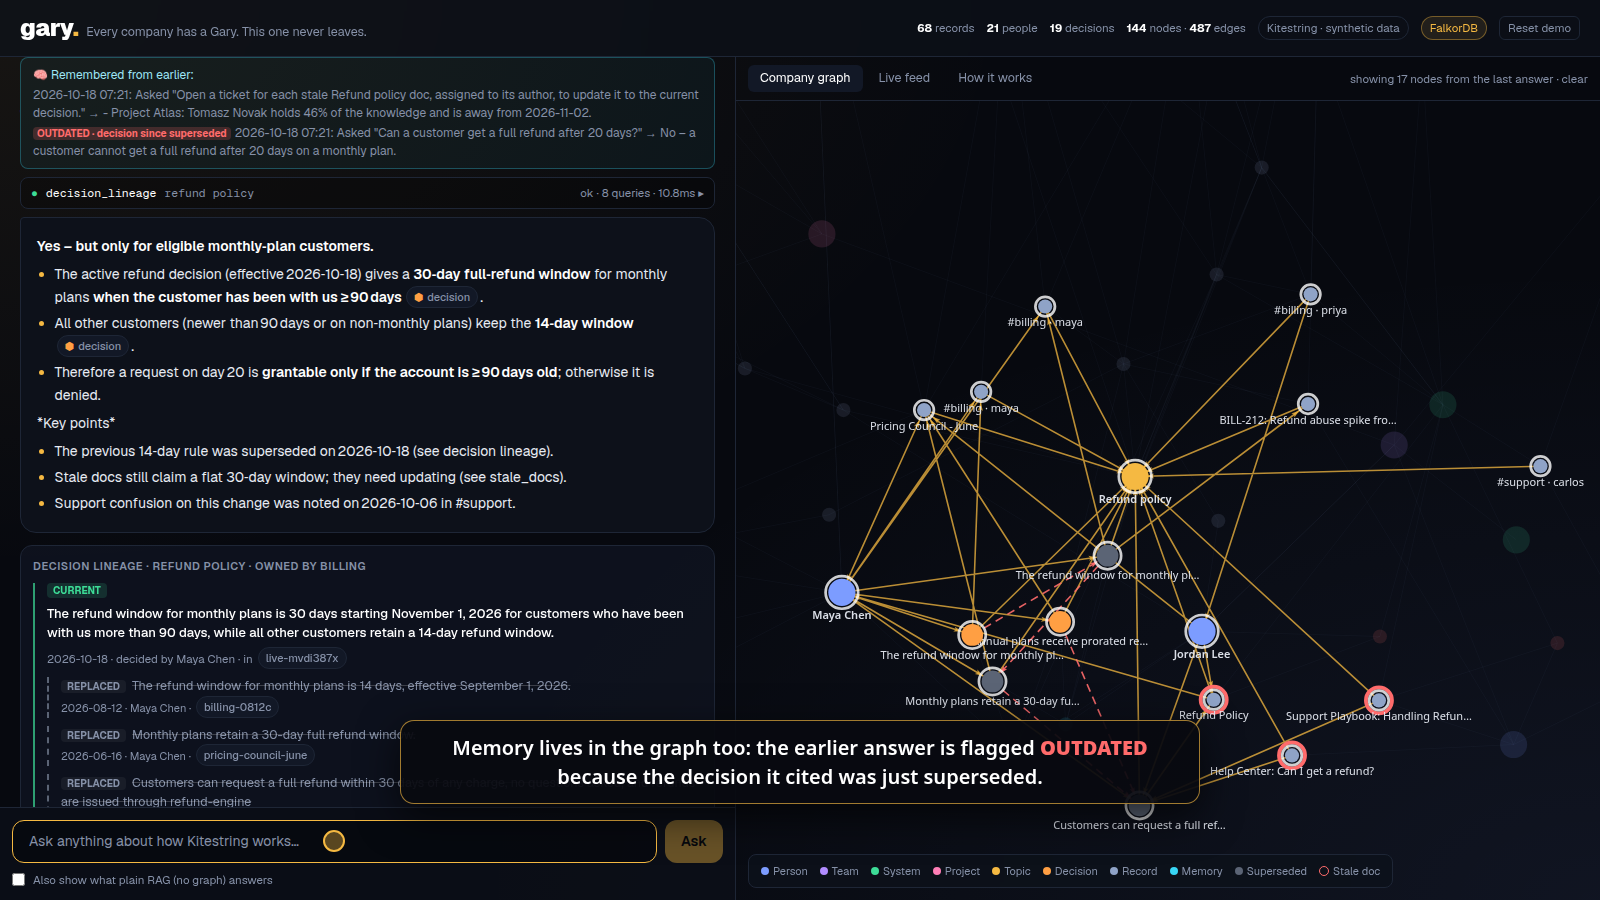
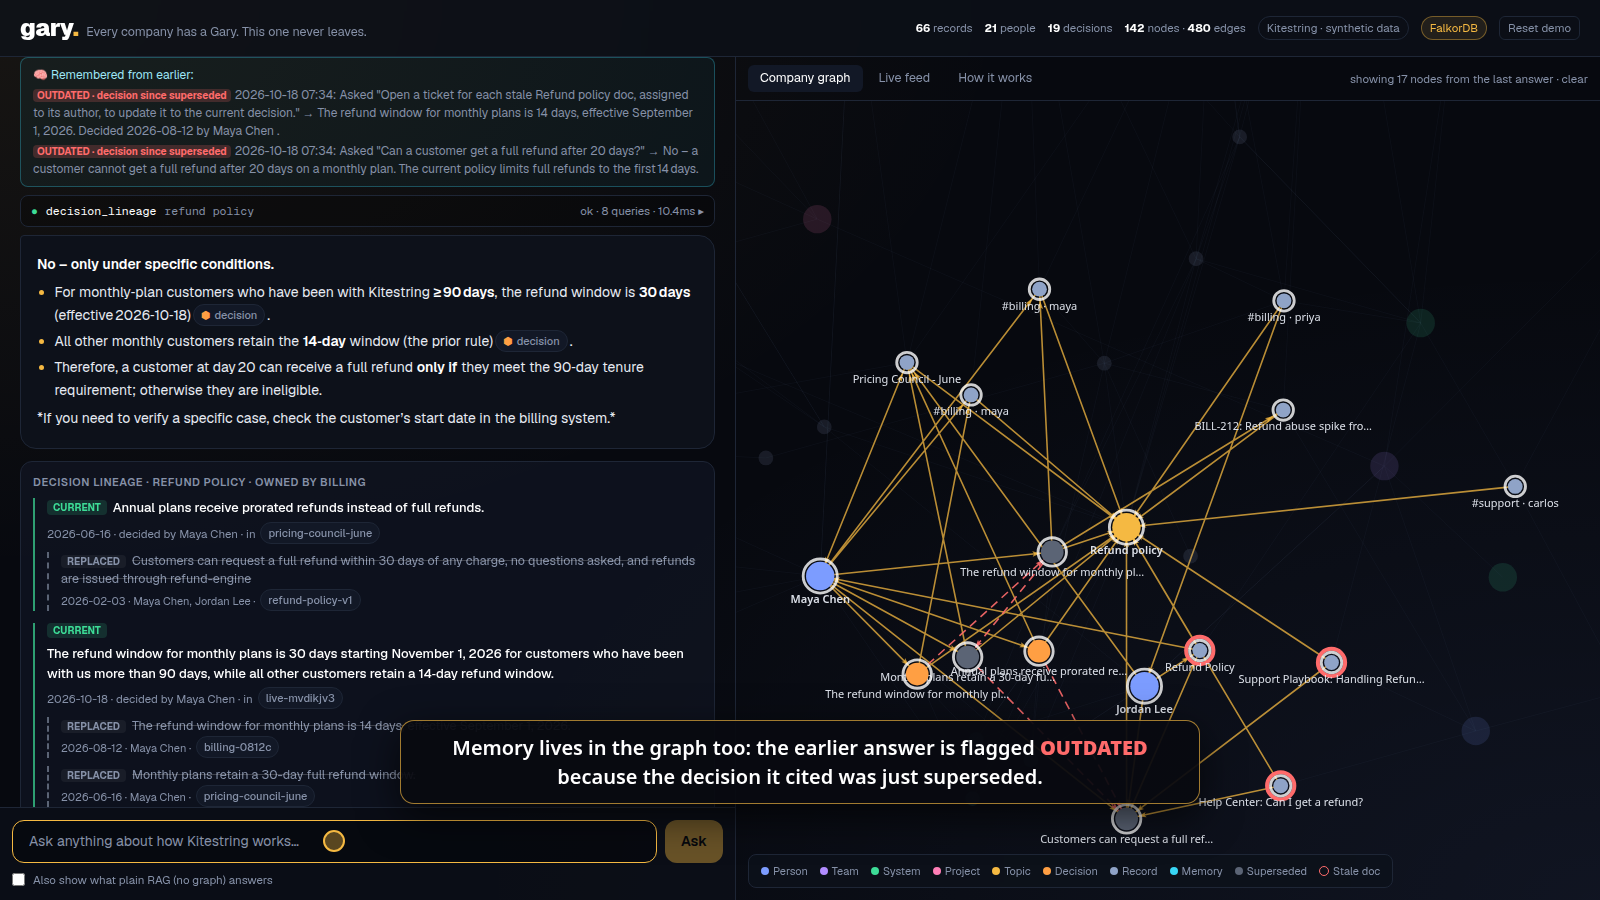
fix_stale_docs: one graph-driven, idempotent action tool behind the Fix-it button

diff --git a/lib/agent.ts b/lib/agent.ts
@@ -33,7 +33,7 @@ Rules:
 - If a recommended person is on_leave/away, say so and name a backup.
 - Only name owners, experts or backups that decision_lineage, who_knows, profile, risk_radar or catch_up returned. Search results are keyword matches: never infer owners or people from them.
 - When a decision replaced older ones, say what changed and when. Flag stale docs that still state old decisions, and name their authors.
-- Only call open_ticket or remember when the user explicitly asks you to act or remember.
+- Only call fix_stale_docs, open_ticket or remember when the user explicitly asks you to act or remember. To fix stale docs, call fix_stale_docs once (it handles every doc).
 - Be concise: a direct answer first, then 2-5 short bullet points. Plain markdown, no tables.
 Today is ${today}.${memory}`;
 
@@ -97,7 +97,7 @@ export async function* runAgent(question: string, history: Turn[], session: stri
 
   // No model available (rate limit / outage): route deterministically and answer from the rows.
   if (llmFailed && !results.length) {
-    const [name, args] = route(question);
+    const [name, args] = route(question, subjects);
     yield { type: "tool", id: "fallback", name, args };
     const result = await runTool(tx, name, args, session);
     results.push({ name, args, result });
@@ -146,7 +146,7 @@ export async function* runAgent(question: string, history: Turn[], session: stri
 
   const nodes = [...new Set(results.flatMap((r) => r.result.nodes))];
   // only answers the graph actually supported become memories
-  if (results.some((r) => r.result.outcome === "ok" && !["open_ticket", "remember"].includes(r.name)))
+  if (results.some((r) => r.result.outcome === "ok" && !["open_ticket", "remember", "fix_stale_docs"].includes(r.name)))
     await saveEpisode(tx, { session, question, answer: finalText, subjects: [...new Set([...subjects, ...results.flatMap((r) => r.result.nodes.filter((n) => /^(person|team|system|project|topic):/.test(n)))])].slice(0, 6), decisions: valid.filter((k) => k.startsWith("decision:")).concat(nodes.filter((n) => n.startsWith("decision:"))) }).catch(() => {});
 
   yield { type: "answer", text: finalText.trim(), citations, invalidCitations: invalid, model, grounded, nodes, rebuilt };
@@ -194,8 +194,9 @@ export function inventedNames(text: string, vocab: Set<string>): string[] {
   return [...out];
 }
 
-function route(q: string): [string, Record<string, unknown>] {
+function route(q: string, subjects: string[] = []): [string, Record<string, unknown>] {
   const s = q.toLowerCase();
+  if (/\b(fix|open (a )?tickets?)\b/.test(s) && subjects.length) return ["fix_stale_docs", { subject: subjects[0] }];
   const subject = q.replace(/^(who|what|why|when|how|where)\b.*?\b(about|on|for|is|are|of)\s+/i, "").replace(/[?.!]+$/, "");
   if (/risk|bus factor|single point|what could go wrong/.test(s)) return ["risk_radar", {}];
   if (/what did i miss|catch me up|what changed|while i was (away|out)/.test(s)) return ["catch_up", { days: 30 }];
@@ -232,6 +233,9 @@ function composeFromRows(results: { name: string; result: ToolResult }[]): strin
     } else if (name === "search" && d.results) {
       out.push(`Top records for "${d.query}":`);
       for (const r of d.results.slice(0, 4)) out.push(`- ${r.title} (${r.date}): ${r.excerpt} [${r.key}]`);
+    } else if (name === "fix_stale_docs" && d.tickets) {
+      out.push(`Opened tickets to bring the stale **${d.subject.name}** docs in line with the current decision:`);
+      for (const t of d.tickets) out.push(`- ${t.already_open ? "Already open" : "Created"} [${t.key}] for "${t.title}" [${t.doc}] → ${t.assigned_to}`);
     } else if (name === "catch_up" && d.decisions) {
       out.push(`Since ${d.since} (${d.for}):`);
       for (const x of d.decisions.slice(0, 6)) out.push(`- ${x.date}: ${x.statement}${x.replaced.length ? " (replaced an earlier decision)" : ""} [${x.key}]`);

diff --git a/lib/tools.ts b/lib/tools.ts
@@ -433,6 +433,43 @@ async function openTicket(tx: Tracer, args: { title: string; details: string; su
   });
 }
 
+// One action, driven entirely by the graph: a ticket per stale doc, assigned to its author. Idempotent.
+async function fixStaleDocs(tx: Tracer, { subject }: { subject: string }, session: string): Promise<ToolResult> {
+  const lineage = await decisionLineage(tx, { subject });
+  if (lineage.outcome !== "ok") return lineage;
+  const d = lineage.data as { subject: Resolved; current: { statement: string }[]; stale_docs: { key: string; title: string; still_says?: string; author: string | null }[] };
+  if (!d.stale_docs.length) return { outcome: "empty", data: { subject: d.subject, note: "No stale docs about this subject." }, nodes: [d.subject.key], cites: [] };
+  const current = d.current.map((c) => c.statement).join(" / ");
+  const tickets: { key: string; doc: string; title: string; assigned_to: string; already_open: boolean }[] = [];
+  for (const doc of d.stale_docs) {
+    const [open] = await tx.ro<{ key: string; assignee: string | null }>(
+      "fix.existing_ticket",
+      `MATCH (t:Ticket {origin:'gary', status:'Open'})-[:REFERENCES]->(:Doc {key:$k}) OPTIONAL MATCH (p:Person)-[:ASSIGNED]->(t) RETURN t.key AS key, p.name AS assignee LIMIT 1`,
+      { k: doc.key },
+    );
+    if (open) {
+      tickets.push({ key: open.key, doc: doc.key, title: doc.title, assigned_to: open.assignee ?? "unassigned", already_open: true });
+      continue;
+    }
+    const r = await openTicket(tx, {
+      title: `Update "${doc.title}" to the current decision`,
+      details: `Still says: "${doc.still_says ?? "an outdated decision"}". Current decision: ${current}`,
+      subject: d.subject.key,
+      assignee: doc.author ?? undefined,
+      refs: [doc.key],
+    });
+    const created = r.data as { created: string; assigned_to: string };
+    tickets.push({ key: created.created, doc: doc.key, title: doc.title, assigned_to: created.assigned_to, already_open: false });
+  }
+  void session;
+  return {
+    outcome: "ok",
+    data: { subject: d.subject, current_decision: current, tickets },
+    nodes: [d.subject.key, ...tickets.flatMap((t) => [t.key, t.doc])],
+    cites: [...tickets.map((t) => t.key), ...tickets.map((t) => t.doc)],
+  };
+}
+
 async function remember(tx: Tracer, args: { note: string; subject: string }, session: string): Promise<ToolResult> {
   return withSubject(tx, args.subject, async (s) => {
     const key = `finding:${Date.now()}`;
@@ -543,6 +580,14 @@ export const TOOLS: ChatCompletionTool[] = [
   {
     type: "function",
     function: {
+      name: "fix_stale_docs",
+      description: "ACTION: open a ticket for every stale doc about a subject, assigned to that doc's author (skips docs that already have an open ticket). Use when the user asks to fix or update stale docs.",
+      parameters: { type: "object", properties: subjectParam, required: ["subject"] },
+    },
+  },
+  {
+    type: "function",
+    function: {
       name: "remember",
       description: "Save a note to long-term memory about a subject. Only when the user asks you to remember something.",
       parameters: { type: "object", properties: { note: { type: "string" }, subject: { type: "string" } }, required: ["note", "subject"] },
@@ -570,6 +615,8 @@ export async function runTool(tx: Tracer, name: string, args: Record<string, unk
       return catchUp(tx, args as { since?: string; days?: number; person?: string }, resolve);
     case "open_ticket":
       return openTicket(tx, args as Parameters<typeof openTicket>[1]);
+    case "fix_stale_docs":
+      return fixStaleDocs(tx, args as { subject: string }, session);
     case "remember":
       return remember(tx, args as { note: string; subject: string }, session);
     default:

diff --git a/app/components/Cards.tsx b/app/components/Cards.tsx
@@ -22,7 +22,7 @@ const Key = ({ k, onCite }: { k?: string | null; onCite: (k: string) => void }) 
     </button>
   ) : null;
 
-export function ToolCards({ name, data, onCite, onAsk }: { name: string; data: any; onCite: (k: string) => void; onAsk: (q: string) => void }) {
+export function ToolCards({ name, data, onCite, onAsk }: { name: string; data: any; onCite: (k: string) => void; onAsk: (q: string, opts?: { compare?: boolean }) => void }) {
   if (!data) return null;
   if (name === "decision_lineage" && data.current) {
     return (
@@ -82,7 +82,7 @@ export function ToolCards({ name, data, onCite, onAsk }: { name: string; data: a
               </div>
             )}
             <button
-              onClick={() => onAsk(`Open a ticket for each stale ${data.subject?.name} doc, assigned to its author, to update it to the current decision.`)}
+              onClick={() => onAsk(`Fix the stale ${data.subject?.name} docs: open a ticket for each, assigned to its author.`, { compare: false })}
               className="mt-3 rounded-lg bg-bad/90 px-3 py-1.5 text-[12px] font-semibold text-white hover:bg-bad"
             >
               Fix it → open tickets for the doc owners
@@ -204,6 +204,20 @@ export function ToolCards({ name, data, onCite, onAsk }: { name: string; data: a
             </div>
           ))}
         </div>
+      </Box>
+    );
+  }
+  if (name === "fix_stale_docs" && data.tickets) {
+    return (
+      <Box tone="good" title="Action taken">
+        <ul className="space-y-1 text-[12.5px]">
+          {data.tickets.map((t: any) => (
+            <li key={t.key}>
+              {t.already_open ? "↺ Already open" : "✅ Created"} <Key k={t.key} onCite={onCite} /> for <span className="text-white">{t.title}</span> → assigned to{" "}
+              <span className="text-white">{t.assigned_to}</span>
+            </li>
+          ))}
+        </ul>
       </Box>
     );
   }

diff --git a/app/page.tsx b/app/page.tsx
@@ -93,7 +93,8 @@ export default function Home() {
   }, []);
 
   const ask = useCallback(
-    async (q: string) => {
+    async (q: string, opts: { compare?: boolean } = {}) => {
+      const withCompare = opts.compare ?? compare;
       if (!q.trim() || busy) return;
       setBusy(true);
       setInput("");
@@ -101,11 +102,11 @@ export default function Home() {
       const history = msgs.filter((m) => !m.pending).map((m) => ({ role: m.role === "user" ? "user" : "assistant", content: m.text }));
       const uid = `u${Date.now()}`;
       const gid = `g${Date.now()}`;
-      setMsgs((m) => [...m, { id: uid, role: "user", text: q, steps: [] }, { id: gid, role: "gary", text: "", steps: [], pending: true, compare: compare ? "loading" : undefined }]);
+      setMsgs((m) => [...m, { id: uid, role: "user", text: q, steps: [] }, { id: gid, role: "gary", text: "", steps: [], pending: true, compare: withCompare ? "loading" : undefined }]);
       const patch = (fn: (m: Msg) => Msg) => setMsgs((ms) => ms.map((m) => (m.id === gid ? fn(m) : m)));
       setHighlight([]);
 
-      if (compare)
+      if (withCompare)
         fetch("/api/compare", { method: "POST", headers: { "Content-Type": "application/json" }, body: JSON.stringify({ question: q }) })
           .then((r) => r.json())
           .then((c) => patch((m) => ({ ...m, compare: c })))

diff --git a/mcp/server.ts b/mcp/server.ts
@@ -25,9 +25,10 @@ const SHAPES: Record<string, z.ZodRawShape> = {
     assignee: z.string().optional(),
     refs: z.array(z.string()).optional(),
   },
+  fix_stale_docs: subject,
   remember: { note: z.string(), subject: z.string() },
 };
-const WRITES = new Set(["open_ticket", "remember"]);
+const WRITES = new Set(["open_ticket", "remember", "fix_stale_docs"]);
 
 for (const tool of TOOLS) {
   if (tool.type !== "function") continue;

diff --git a/README.md b/README.md
@@ -48,7 +48,7 @@ Every one of these is about **relationships, not text**. A vector index cannot k
 ## Demo storyline (try these)
 
 1. **"Can a customer get a full refund after 20 days?"** Plain RAG (shown side by side) retrieves the June meeting notes and says *yes, 30 days*. Gary walks `SUPERSEDES` and answers **no: 14 days since Aug 12, decided by Maya in #billing because of BILL-212 (refund abuse)**. It shows the two older decisions it replaced and flags **3 docs that still say 30 days** (Notion policy, support playbook, help center) with their authors. It also surfaces Carlos's confused #support message.
-2. Click **"Fix it"**: Gary opens tickets assigned to Jordan and Mei. They appear as red nodes in the graph.
+2. Click **"Fix it"**: `fix_stale_docs` opens one ticket per stale doc, assigned to its author (Jordan, Mei). It is idempotent, and the tickets appear as red nodes in the graph.
 3. **"Who should I talk to about ledger-db?"** Tomasz holds about 55% of the hands-on knowledge, **but he is on parental leave from Nov 2**, inside the Atlas rollback window. Omar and Hana are the backups.
 4. **"What are our biggest knowledge risks right now?"** Knowledge concentration per system/project, upcoming absences, betweenness-central knowledge brokers and stale docs.
 5. **"Why is usage-based pricing launching Dec 1?"** Multi-hop: Dec 1 replaced Nov 15 because the Atlas ledger cutover is Oct 28, which moved there because of the SOC2 audit change freeze.
@@ -66,7 +66,7 @@ Every one of these is about **relationships, not text**. A vector index cannot k
  GitHub ┘   LLM decision extraction  ◄─context── │ Doc ─ASSERTS─► Decision  Finding (mem) │
             (active decisions from the graph)    └────────────▲───────────────────────────┘
                                                               │ parameterised Cypher only
- Question ─► memory recall ─► LLM picks tool(s) ─► Tool catalogue (10) ─► rows ─► answer
+ Question ─► memory recall ─► LLM picks tool(s) ─► Tool catalogue (11) ─► rows ─► answer
                                                    + citation validation + graph highlight
 ```
 
@@ -77,9 +77,10 @@ Every one of these is about **relationships, not text**. A vector index cannot k
 - **MCP:** `@modelcontextprotocol/sdk` stdio server in `mcp/server.ts`.
 
 ### Design rules (borrowed from the organisers' "agent that reasons over a graph" guide)
-- **No model-written Cypher.** The model chooses from 10 fixed, parameterised tools.
+- **No model-written Cypher.** The model chooses from 11 fixed, parameterised tools.
 - **Resolve before reasoning.** Names are matched against the graph (exact → alias → full-text with ≥50% word coverage). Unknown means *unknown_subject*, never a guess.
 - **Answers carry their path.** Citations are validated against tool output, and the UI shows every query.
+- **Names are validated too.** Our own demo recording caught the model citing real records while inventing a "Product-Mobile team led by Priya Patel". Every capitalised name pair and hyphenated proper noun in an answer must now exist in the graph or in this turn's tool results. Otherwise the answer is rebuilt from the graph rows, and the UI says which names were rejected. Backups for people going on leave are computed in Cypher, so the model never has to guess one.
 - **Memory is just nodes**, linked to what it is about, with timestamps, so it can go stale with the graph.
 
 ## Graph data model
